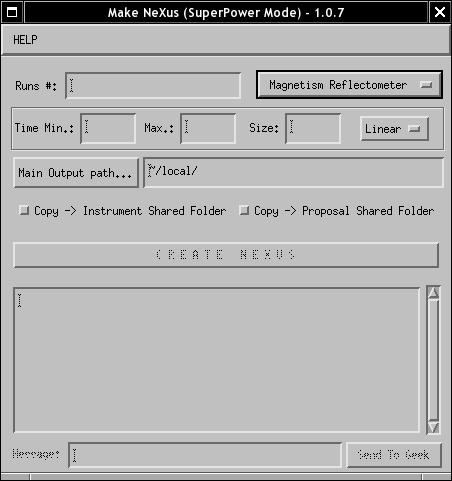
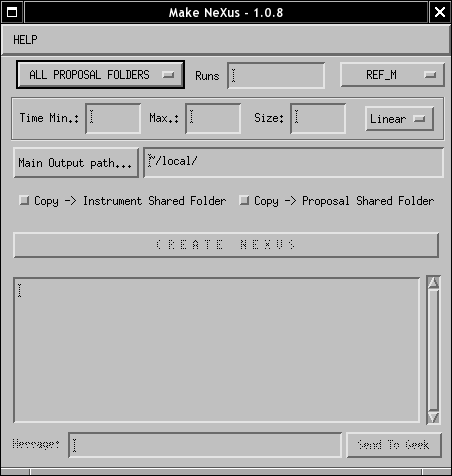
Updated help document. This resolves #781

diff --git a/1.0/makenexusHELP/stepBYstep.html b/1.0/makenexusHELP/stepBYstep.html
@@ -12,6 +12,8 @@ nomenclature:<ul><li>1454 -> run 1454</li>
 	      <li>1454-1457 -> run 1454, run 1455, run 1456 and run 1457</li>
 	      <li>1454,1456-1458 -> run 1454, run 1456, run 1457 and run 1458</li>
 	      </ul><br>
+You can speed up the search process by selecting the <b>proposal folder</b> from 
+where this run belongs. 
 <center><img src ='sbs1.png'></center>
 <center>Examples of Inputs</center>
 <br>Press <font color=blue>ENTER</font> or select an instrument to allow the program 
